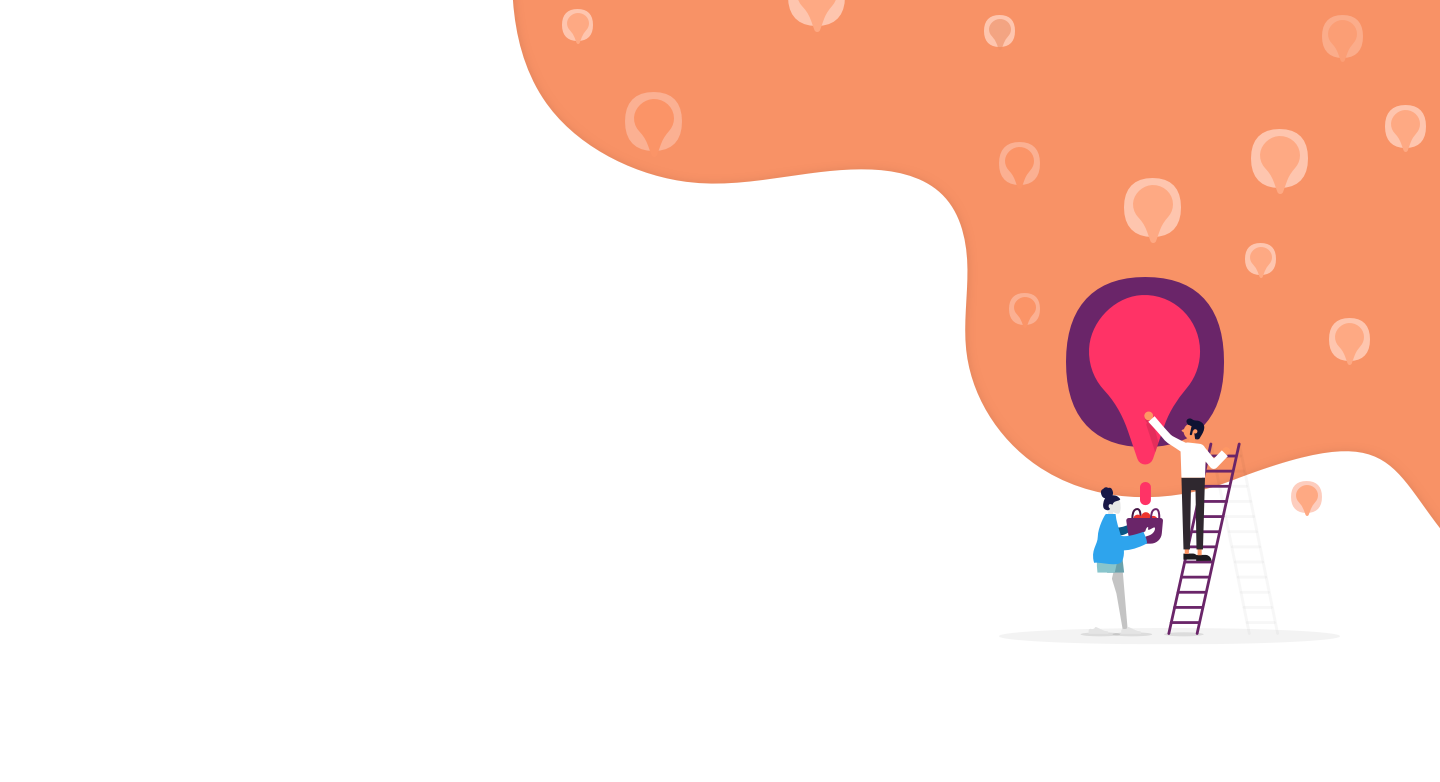
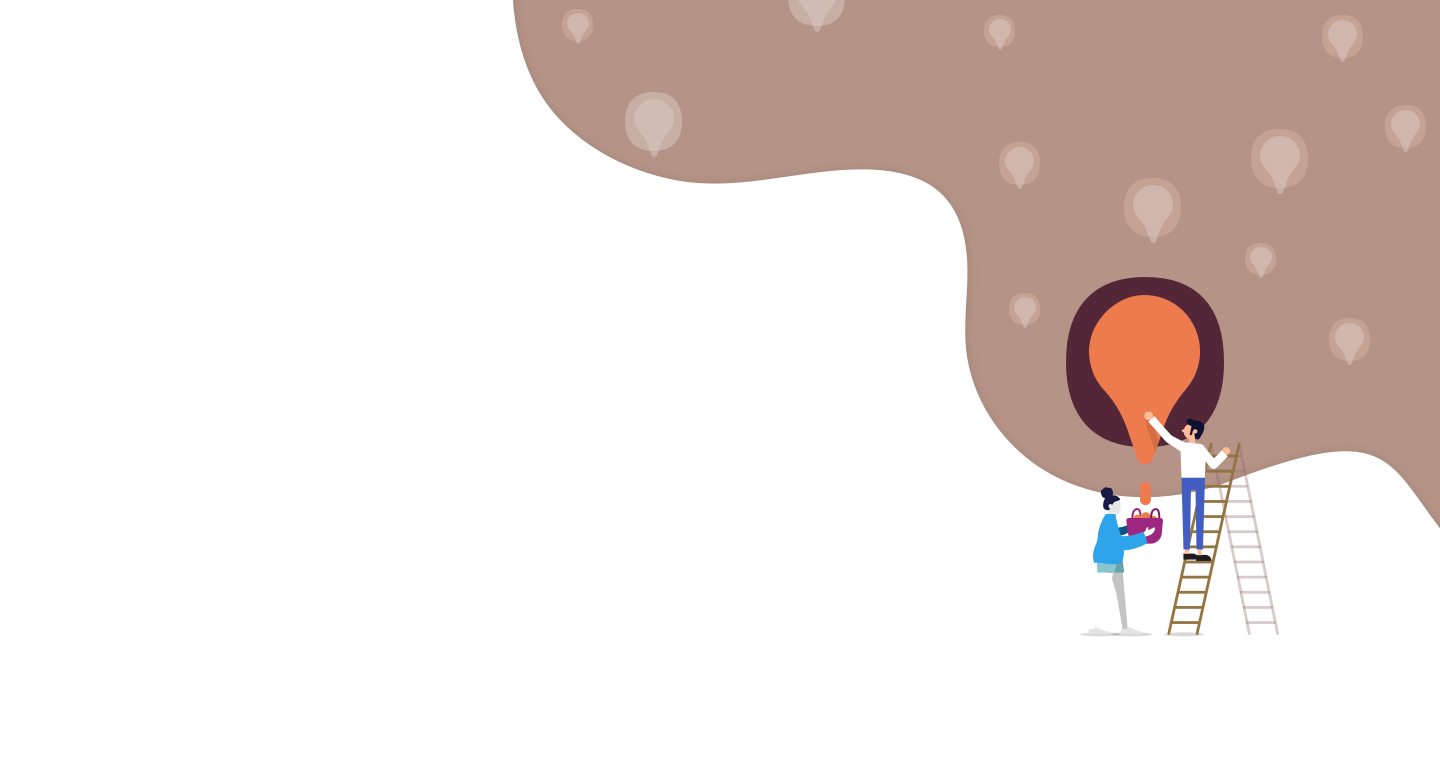
[Prajakta] change VD

Changed region(s): [[0.3438, 0.0, 1.0, 0.798]]

diff --git a/index.html b/index.html
@@ -43,7 +43,7 @@
 </a>
 <div id='main-menu' class="navbar navbar-inverse navbar-static-top" role="navigation">
     <a class="logo_navbar img-responsive" href='#home' title="Creative Foundry">
-        <img class="logo_navbar_image" alt="header logo" id="cf-logo" src="./img/img_foundry_logo.png"></a>
+        <img class="logo_navbar_image" alt="header logo" id="cf-logo" src="./img/CF-logo.png"></a>
     <!--         <img class="logo_navbar img-responsive" src="./img/img_logo_navbar.png" alt="logo"></img> -->
     <div class="container">
         <div class="navbar-header">
@@ -73,14 +73,14 @@
         </div>
         <div class="intro intro-content">
             Come along and enjoy an evening of a curated bunch of talks and experiences
-            around the theme of <b>"DESIGN FOR SOCIAL CHANGE"</b>.Between sessions and outside, you'll have lots of
+            around the theme of <b>"DESIGN FOR SOCIAL CHANGE"</b>.   Between sessions and outside, you'll have lots of
             time to interact with other, like minded people.
         </div>
         <div class="register">
             <button
                     class="btn btn-danger btn-lg"
                     id="register-now-homepage-button"
-                    onclick="location.href = '#clients';">Register for free
+                    onclick="location.href = 'https://docs.google.com/forms/d/e/1FAIpQLSdxHnp-SvjhqfPWDzLeHvaxmdQylboFURg9xQzattyDTVuGeQ/viewform';">Register for free
             </button>
             <div class="register-date">01/06 PUNE</div>
         </div>
@@ -98,33 +98,29 @@
                         <img class="speaker_pic" src="./img/speakers/AbhishekVerma.jpg" alt=""></img>
                         <p class="speaker_name"><a href="https://www.thequint.com/neon/maacher-jhol-a-short-film-on-being-gay-and-coming-out-of-the-closet" target="_blank">Abhishek Verma
                             </a></p>
-                        <p class="speaker_type"><a href="https://www.thequint.com/neon/maacher-jhol-a-short-film-on-being-gay-and-coming-out-of-the-closet" target="_blank">
-                            Person</a></p>
                     </div>
                     <div class="flex_item">
                         <img class="speaker_pic" src="./img/speakers/ManishJain.jpg" alt=""></img>
                         <p class="speaker_name"><a href="https://www.facebook.com/pg/iitgncli/photos/?ref=page_internal" target="_blank">Manish Jain</a></p>
-                        <p class="speaker_type"><a href="https://www.facebook.com/pg/iitgncli/photos/?ref=page_internal" target="_blank">
-                            Person</a></p>
                     </div>
                     <div class="flex_item">
                         <img class="speaker_pic" src="./img/speakers/SumedhaVerma.jpg" alt=""></img>
                         <p class="speaker_name"><a href="https://www.linkedin.com/in/sumedha-verma-8a552018/"
                                                    target="_blank">Sumedha Verma</a>
                         <p class="speaker_type"><a href="https://www.thoughtworks.com/"
-                                                   target="_blank">Thoughtworks</a></p>
+                                                   target="_blank">Developer at Thoughtworks</a></p>
                     </div>
                     <div class="flex_item">
-                        <img class="speaker_pic" src="./img/speakers/Anirban%20Ghosh.png" alt="" width="200" height="200"></img>
+                        <img class="speaker_pic" src="./img/speakers/Anirban%20Ghosh.png" alt=""></img>
                         <p class="speaker_name"><a href="https://graphicshelf.com/informative-session-anirban-ghosh/"
                                                    target="_blank">Anirbhan Ghosh
                         </a>
                         </p>
                         <p class="speaker_type"><a href="https://graphicshelf.com/informative-session-anirban-ghosh/"
-                                                   target="_blank">Designer Thoughtworks</a></p>
+                                                   target="_blank">Designer at Thoughtworks</a></p>
                     </div>
                     <div class="flex_item">
-                        <img class="speaker_pic" src="./img/speakers/Vaishali.jpg" alt="" width="200" height="200"></img>
+                        <img class="speaker_pic" src="./img/speakers/Vaishali.jpg" alt=""></img>
                         <p class="speaker_name"><a target="_blank">Vaishali Kulkarni</a>
                         <p class="speaker_type"></p>
                     </div>
@@ -135,7 +131,7 @@
                         <p class="speaker_type"><a href="https://yourstory.com/2018/11/haaziq-kazi-ervis-marine-life" target="_blank">Student</a></p>
                     </div>
                     <div class="flex_item">
-                        <img class="speaker_pic" src="./img/speakers/kavita.jpg" alt="" width="200" height="200"></img>
+                        <img class="speaker_pic" src="./img/speakers/kavita.jpg" alt=""></img>
                         <p class="speaker_name"><a href="https://www.facebook.com/blrmakespace/?eid=ARD_8Rz8cL0buuxKfKWvvMi4nnuQ9SfpxIWLoRUxmmQthsf7Y8K4QRQQK1G9-OtiW2HuqfjvBUTuFY1q&timeline_context_item_type=intro_card_work&timeline_context_item_source=4802015&fref=tag"
                                                    target="_blank">Kavita Arora</a>
                         </p>
@@ -346,7 +342,7 @@
                     <button
                             class="btn btn-danger"
                             id="register-now-homepage-button-contact"
-                            onclick="location.href = '#clients';">Register for free
+                            onclick="location.href = 'https://docs.google.com/forms/d/e/1FAIpQLSdxHnp-SvjhqfPWDzLeHvaxmdQylboFURg9xQzattyDTVuGeQ/viewform';">Register for free
                     </button>
                 </div>
             </div>
@@ -424,34 +420,6 @@
         </a>
         <div class="main-text">
             Snapshots from Creative Foundry 2016
-        </div>
-    </div>
-</div>
-<div id='clients' class="section clients">
-    <div class="register-section-block">
-        <div class="register-head">Entry Free. Register Here!</div>
-        <div>
-            <script src="https://app-e.marketo.com/js/forms2/js/forms2.js"></script>
-            <form class="register-form" id="mktoForm_4508"></form>
-            <script>
-              MktoForms2.loadForm("https://app-e.marketo.com", "199-QDE-291", 4508);
-            </script>
-            <script src="//<host>/js/forms2/js/forms2.js"></script>
-            <script>
-              MktoForms2.whenReady(function (form) {
-                document.getElementsByClassName('mktoButton')[0].className = 'btn btn-danger btn-sm';
-
-                form.onSuccess(function (values, followUpUrl) {
-                  form.getFormElem().hide();
-                  document.getElementById('confirmform').style.visibility = 'visible';
-                  return false;
-                });
-              });
-            </script>
-            <div id="confirmform" style="visibility:hidden;">
-                <p class="confirmation_text"><strong>Thanks for registering, You shall receive an email confirmation in
-                    your inbox shortly.</strong></p>
-            </div>
         </div>
     </div>
 </div>

diff --git a/stylesheet/style1.css b/stylesheet/style1.css
@@ -69,7 +69,7 @@
     font-size: 20px;
     font-weight: lighter;
     text-align: left;
-    max-width: 600px;
+    max-width: 694px;
 }
 
 .coming_soon .intro-heading {
@@ -130,12 +130,15 @@
     width: 100%;
     display: -webkit-flex;
     display: flex;
+    flex-wrap: wrap;
     -webkit-align-content: flex-end;
     align-content: flex-end;
-    overflow: auto;
+    justify-content: center;
 }
 .speaker_list .flex_item {
     margin: 0 16px;
+    flex-basis: calc(100% / 4);
+    margin-bottom: 32px;
 }
 
 .speaker_list a{
@@ -150,7 +153,6 @@
 }
 
 .speaker_pic {
-    width: 200px;
     height: 200px;
 }
 
@@ -298,7 +300,7 @@ a:hover{
 
 .nav-bar-selected-item {
     color: white !important;
-    border-bottom: 4px solid #FF3366;
+    border-bottom: 4px solid #FFFFFF;
     font-weight: bold;
 }
 
@@ -454,7 +456,7 @@ a:hover{
 }
 
 .btn-danger {
-    background-color: #FF3366;
+    background-color: #EE7B4D;
     font-weight: bold;
     padding: 18px 40px;
 }

diff --git a/stylesheet/main.min.css b/stylesheet/main.min.css
@@ -28,7 +28,7 @@ ul {
 }
 
 #body {
-    background-color: #654141;
+    background-color: #48342f;
     padding: 0;
     margin: 0
 }
@@ -125,11 +125,6 @@ p {
 
 #main-menu .container {
     margin-top: -50px;
-}
-
-.logo_navbar_image {
-    width: 172px;
-    height: 74px;
 }
 
 .navbar-nav > li {
@@ -1072,7 +1067,7 @@ textarea.parsley-error {
     }
 
     .navbar-collapse {
-        background-color: white;
+        background-color: #B59487;
     }
 
     ul.navbar-nav {
